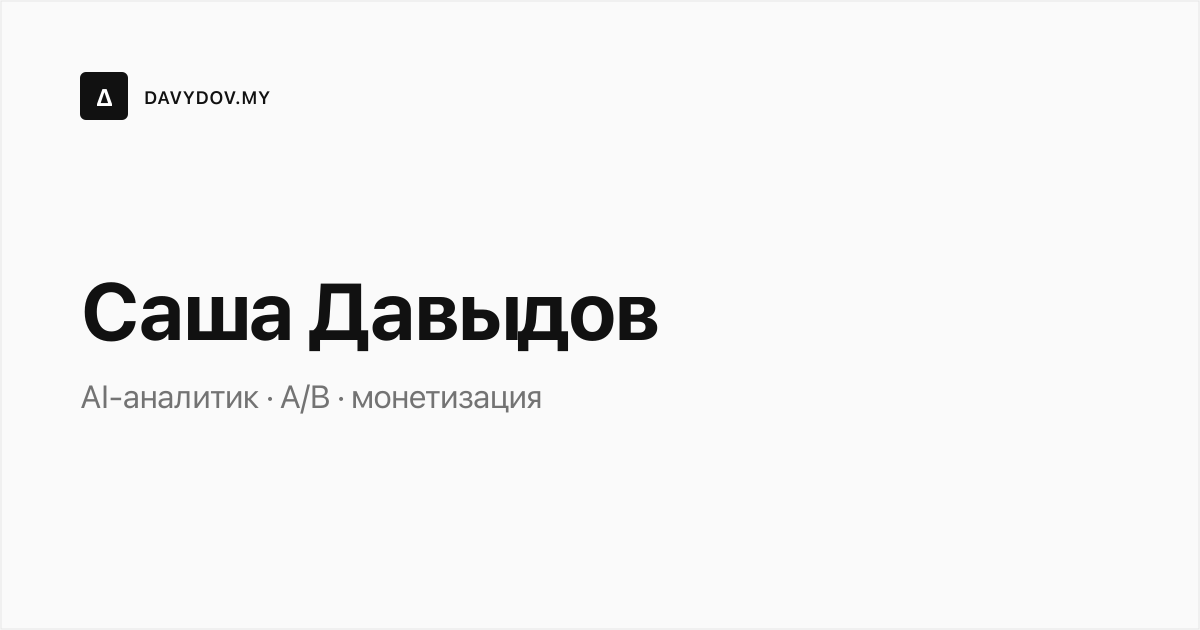
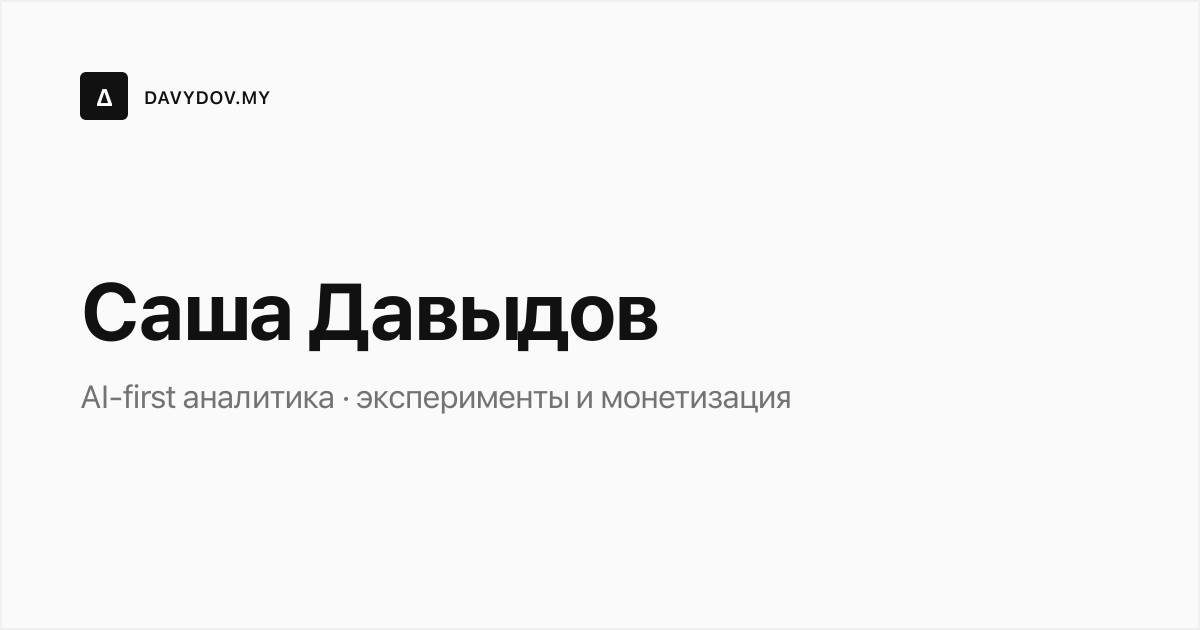
Позиция на главной и /about/: герой, description, OG-картинка, точка на телефоне
Главная: строка над героем, определение и мысль в герое, title и
description — по канону из CLAUDE.md; теги под героем убраны; кнопки
героя без инлайна, на телефоне от левого края. OG-картинка — новая
короткая строка, меняется только она.
/about/: определение, мысль и термин в начале; абзац «На сайте —
серия…» убран; description — определение.
style.css: кегль h1.display на телефоне не шире колонки — точка
не отрывается от «Давыдов»; от ~410px и шире всё как было.
design-system.md: несоответствие №8 (прокрутка на 320 px), герой, .tag.

Changed region(s): [[0.0925, 0.6032, 0.6783, 0.6635]]

diff --git a/about/index.html b/about/index.html
@@ -6,10 +6,10 @@
     <title>Обо мне — Саша Давыдов</title>
     <meta name="author" content="Саша Давыдов"/>
     <link rel="canonical" href="https://davydov.my/about/"/>
-    <meta name="description" content="Саша Давыдов — аналитик в индустрии, 8 лет. Тимлид аналитики монетизации в Дзене. AI-аналитик, эксперименты, монетизация, менторство."/>
+    <meta name="description" content="Строю AI-first аналитику: решаю, какую работу аналитика отдать агенту, объявляю решения, без которых он ошибётся, и принимаю его работу проверкой, а не на слово."/>
     <meta property="og:type" content="website"/>
     <meta property="og:title" content="Обо мне — Саша Давыдов"/>
-    <meta property="og:description" content="Саша Давыдов — аналитик в индустрии, 8 лет. Тимлид аналитики монетизации в Дзене. AI-аналитик, эксперименты, монетизация, менторство."/>
+    <meta property="og:description" content="Строю AI-first аналитику: решаю, какую работу аналитика отдать агенту, объявляю решения, без которых он ошибётся, и принимаю его работу проверкой, а не на слово."/>
     <meta property="og:url" content="https://davydov.my/about/"/>
     <meta property="og:image" content="https://davydov.my/assets/og/about.png"/>
     <meta property="og:image:width" content="1200"/>
@@ -76,14 +76,17 @@
   <div class="author-av"><span>АД</span></div>
 
   <h1 class="page-title">Обо мне<span class="accent-dot">.</span></h1>
-  <p class="page-lead">Аналитик в индустрии. 8 лет в платформах и двусторонних рынках — A/B-эксперименты, динамическое ценообразование, монетизация. Решения для продуктов, где нельзя «просто A/B».</p>
+  <p class="page-lead">Строю AI-first аналитику: решаю, какую работу аналитика отдать агенту, объявляю решения, без которых он ошибётся, и принимаю его работу проверкой, а не на слово.</p>
+  <p class="page-sub">Проверяю числа — свои, чужие и агента.</p>
 
   <div class="prose" style="margin-top:40px">
+    <p>AI-first аналитика — это когда рутинную работу делает агент, а аналитик объявляет решения, без которых агент ошибётся, и принимает результат проверкой.</p>
+
+    <p>8 лет в платформах и двусторонних рынках — A/B-эксперименты, динамическое ценообразование, монетизация. Решения для продуктов, где нельзя «просто A/B».</p>
+
     <p>Сейчас веду аналитику монетизации в Дзене. До этого работал в inDrive, Ситидрайве, Самокате, Мегамаркете, в BNPL-финтехе. На первый взгляд — разные индустрии. На самом деле одна задача в разных формах: измерять и менять продукт, где две стороны рынка влияют друг на друга. Водитель и пассажир, продавец и покупатель, контент и пользователь. Там, где классический A/B ломается на network effects, нужны другие методы — switchback, geo-эксперименты, синтетический контроль, аукционные модели. Везде на стыке аналитики, экспериментов и управленческих решений — там, где данные перестают быть отчётами и становятся частью того, как система устроена.</p>
 
     <p>Меня интересует механизм, а не движение метрики. Что именно изменилось в системе, почему это произошло, какие будут вторичные эффекты. В платформенной экономике эффекты приходят с лагом, локальная оптимизация ломает целое, локальные победы оборачиваются системными проигрышами. Эти вещи нельзя «считать» — их можно только понять.</p>
-
-    <p>На сайте — серия про AI-аналитика: сколько работы аналитика можно отдать агенту и чем это проверять. Рядом — основа, без которой агенту нечего объявить: эксперименты и монетизация. И «Аналитика везде» — математика там, где её не ждут.</p>
 
     <p>Ещё <a href="/teaching/">преподаю</a> на внешних площадках: Karpov Courses, РАНХиГС, Нетология, Simulative. Менторство — для тех, кто хочет подготовиться к переходу на следующий уровень. Без обещаний и без давления.</p>
 

diff --git a/index.html b/index.html
@@ -3,22 +3,22 @@
 <head>
     <meta charset="UTF-8">
     <meta name="viewport" content="width=device-width, initial-scale=1.0">
-    <title>Саша Давыдов — AI-аналитик и эксперименты</title>
+    <title>Саша Давыдов — AI-first аналитика</title>
     <meta name="author" content="Саша Давыдов"/>
     <link rel="canonical" href="https://davydov.my/"/>
-    <meta name="description" content="Сколько работы аналитика можно отдать агенту и чем это проверять. Стенды с известной правдой, четыре способа проверки, доклад на Матемаркетинге’26."/>
+    <meta name="description" content="Строю AI-first аналитику: решаю, какую работу аналитика отдать агенту, объявляю решения, без которых он ошибётся, и принимаю его работу проверкой, а не на слово."/>
     <meta property="og:type" content="website"/>
     <meta property="og:site_name" content="davydov.my"/>
-    <meta property="og:title" content="Саша Давыдов — AI-аналитик и эксперименты"/>
-    <meta property="og:description" content="Сколько работы аналитика можно отдать агенту и чем это проверять. Стенды с известной правдой, четыре способа проверки, доклад на Матемаркетинге’26."/>
+    <meta property="og:title" content="Саша Давыдов — AI-first аналитика"/>
+    <meta property="og:description" content="Строю AI-first аналитику: решаю, какую работу аналитика отдать агенту, объявляю решения, без которых он ошибётся, и принимаю его работу проверкой, а не на слово."/>
     <meta property="og:url" content="https://davydov.my/"/>
     <meta property="og:image" content="https://davydov.my/assets/og/home.png"/>
     <meta property="og:image:width" content="1200"/>
     <meta property="og:image:height" content="630"/>
     <meta property="og:locale" content="ru_RU"/>
     <meta name="twitter:card" content="summary_large_image"/>
-    <meta name="twitter:title" content="Саша Давыдов — AI-аналитик и эксперименты"/>
-    <meta name="twitter:description" content="Сколько работы аналитика можно отдать агенту и чем это проверять. Стенды с известной правдой, четыре способа проверки, доклад на Матемаркетинге’26."/>
+    <meta name="twitter:title" content="Саша Давыдов — AI-first аналитика"/>
+    <meta name="twitter:description" content="Строю AI-first аналитику: решаю, какую работу аналитика отдать агенту, объявляю решения, без которых он ошибётся, и принимаю его работу проверкой, а не на слово."/>
     <link rel="icon" href="/favicon.svg" type="image/svg+xml"/>
     <link rel="icon" href="/favicon.ico" sizes="any"/>
     <link rel="stylesheet" href="/style.css"/>
@@ -73,24 +73,18 @@
 <section class="hero">
   <div class="grid12">
     <div class="meta-row">
-      <span>Саша Давыдов — AI-аналитик · A/B · монетизация</span>
+      <span>Саша Давыдов — AI-first аналитика · эксперименты и монетизация</span>
     </div>
     <div class="hero-title reveal">
       <h1 class="display">Саша<br>Давыдов<span class="accent-dot">.</span><span class="caret"></span></h1>
     </div>
     <div class="hero-right reveal">
-      <p class="hero-lede">Разбираю, сколько работы аналитика можно отдать агенту и чем это проверять.</p>
-      <p class="hero-sub">Передаваемость задачи зависит не от сложности, а от того, объявлены ли решения. Необъявленное решение всё равно примет модель.</p>
+      <p class="hero-lede">Строю AI-first аналитику: решаю, какую работу аналитика отдать агенту, объявляю решения, без которых он ошибётся, и принимаю его работу проверкой, а не на слово.</p>
+      <p class="hero-sub">Проверяю числа — свои, чужие и агента.</p>
       <p class="hero-sub">8 лет в Дзене, inDrive, Самокате, Ситидрайве. Лид аналитики, преподаватель.</p>
     </div>
     <div style="grid-column:1/span 12;height:64px"></div>
-    <div class="tags reveal" style="grid-column:1/span 6;align-self:end">
-      <span class="tag">AI-аналитик</span>
-      <span class="tag">A/B-эксперименты</span>
-      <span class="tag">монетизация</span>
-      <span class="tag">ментор</span>
-    </div>
-    <div class="ctas reveal" style="grid-column:7/span 6">
+    <div class="ctas reveal">
       <a href="/ai-analyst/" class="btn btn-primary">AI-аналитик <span class="chev">→</span></a>
       <a href="/talks/" class="btn btn-ghost">Доклад 26 ноября</a>
     </div>

diff --git a/style.css b/style.css
@@ -119,6 +119,7 @@
   @keyframes bounce{0%,100%{transform:scale(1);}50%{transform:scale(1.4);}}
 
   .hero-right{grid-column:9 / span 4;align-self:end;padding-bottom:16px;}
+  .hero .ctas{grid-column:7 / span 6;}
   .hero-lede{font-size:18px;line-height:1.4;margin-bottom:16px;font-weight:400;}
   .highlight{background:var(--accent);color:#fff;padding:0 6px;box-decoration-break:clone;-webkit-box-decoration-break:clone;}
   .hero-sub{font-size:13px;color:var(--muted);line-height:1.55;}
@@ -1031,11 +1032,16 @@
      на /career/ до 193px при 187 доступных. 15vw меньше прежнего кегля
      только до ~427px; шире — всё как было (заголовок — прежний clamp). */
   .page-title{font-size:clamp(40px,15vw,clamp(64px,9vw,128px));}
+  /* «Давыдов.» с кареткой в герое главной — 4,23 кегля в ширину. При 84px
+     это 355px: на 375 точка отрывалась на отдельную строку, на 320 слово
+     выходило за край. Кегль не больше ширины колонки / 4,3; от ~410px
+     и шире — прежний clamp. */
+  h1.display{font-size:min(clamp(84px,12vw,176px),calc((100vw - 48px) / 4.3));}
   .stat-num{font-size:clamp(40px,15vw,64px);}
   .stats{grid-template-columns:1fr 1fr;}
   .stat:nth-child(2){border-right:none;}
   .stat:nth-child(1),.stat:nth-child(2){border-bottom:1px solid var(--line);}
-  .hero-title,.hero-right,.sec-right{grid-column:1 / -1;}
+  .hero-title,.hero-right,.sec-right,.hero .ctas{grid-column:1 / -1;}
   .hero-right{padding-bottom:0;}
   .ctas{justify-content:flex-start;flex-wrap:wrap;}
   .courses-grid,.tests-grid,.cases-grid,.pricing,.cta-strip,.scenarios-grid{grid-template-columns:1fr;}

diff --git a/design-system.md b/design-system.md
@@ -284,7 +284,7 @@
 **Где:** только `/`. Карточки в секциях пишет `scripts/render_home.py`.
 
 **Структура главной сверху вниз:**
-1. `.hero` на `.grid12`: строка `.meta-row` («Саша Давыдов — AI-аналитик · A/B · монетизация»), `h1.display` слева, справа `.hero-lede` и две `.hero-sub`, ниже `.tags` и `.ctas` (две кнопки).
+1. `.hero` на `.grid12`: строка `.meta-row` («Саша Давыдов — AI-first аналитика · эксперименты и монетизация»), `h1.display` слева, справа `.hero-lede` и две `.hero-sub`, ниже справа `.ctas` (две кнопки). Тексты героя — позиция из `CLAUDE.md`, дословно. На телефоне кегль `h1.display` ограничен шириной колонки, чтобы точка не отрывалась от «Давыдов».
 2. `.companies` — полоса площадок преподавания со ссылкой «Преподаю →».
 3. Секции `.courses-wrap`: § 01 AI-аналитик, § 02 Основа, § 03 Аналитика везде — каждая `.sec-head` + сетка карточек между маркерами `<!-- home:ИМЯ:start/end -->`.
 4. § 04 Контакт — `.sec-head` с `.ctas` справа (Telegram, LinkedIn).
@@ -396,7 +396,7 @@
 
 ### 3.12 Теги и чипы (`.tag`, `.chip`)
 
-- `.tag` — рамочная плашка в герое главной (AI-аналитик, A/B-эксперименты, монетизация, ментор): `padding: 8px 14px; border: 1px solid var(--ink); 12px`.
+- `.tag`, `.tags` — рамочная плашка: `padding: 8px 14px; border: 1px solid var(--ink); 12px`. Стояла в герое главной, убрана 2026-09-29; на страницах сайта сейчас не используется, правило в `style.css` осталось.
 - `.chip` — рубрика в `.article-meta` статьи; `.chip--contact` — контакт на `/career/`. Фон `var(--soft)`, `12px`.
 
 ---
@@ -640,13 +640,21 @@
 `macbook-market` (7,4 КБ), `nikifilini` (5,7 КБ), `where-revenue-is-born` (3,6 КБ), `profit-vs-revenue-pivot` (1,7 КБ), `ai-analyst-checks` (188 Б).
 
 ### №5: Инлайн-стили
-По числу `style="…"`: `industriya` 53 (намеренное исключение, раздел 8), `question-paths` 12, `/site-map/` 12, `macbook-market` 9, `404` 6, `/career/` 5, `/companies/` 5, `/approach/` 3, главная 3, статьи «Основы» (`retention-vs-revenue`, `mde-marketplace`, `ab-planning-mistakes`) по 4.
+По числу `style="…"`: `industriya` 53 (намеренное исключение, раздел 8), `question-paths` 12, `/site-map/` 12, `macbook-market` 9, `404` 6, `/career/` 5, `/companies/` 5, `/approach/` 3, главная 1, статьи «Основы» (`retention-vs-revenue`, `mde-marketplace`, `ab-planning-mistakes`) по 4.
 
 ### №6: `/site-map/`
 Отдельная страница без шапки сайта, со своим CSS.
 
 ### ~~№7: Кнопка в блоке-призыве~~ ✅ Закрыто 2026-09-29
 Три варианта разметки, кнопка посередине или во всю колонку. Выравнивание перенесено в `.cta-strip` (3.15), инлайн на `/cases/` и `/companies/` убран.
+
+### №8: Горизонтальная прокрутка на 320 px
+На 375 px прокрутки нет (исправлено 2026-09-29, мобильный кегль `.page-title` и `.stat-num`). На 320 px страница шире экрана в трёх местах:
+- `/career/` — 353 px: число счётчика «27/31» (`.stat-num`) не даёт колонке `.stats` сжаться;
+- `/companies/` — 375 px: `.plan-tag` и строки списка `li` в `.pricing`;
+- `/about/` — 335 px: `.tl-body` в `.timeline`.
+
+Не исправлено, решение за автором.
 
 ---
 
